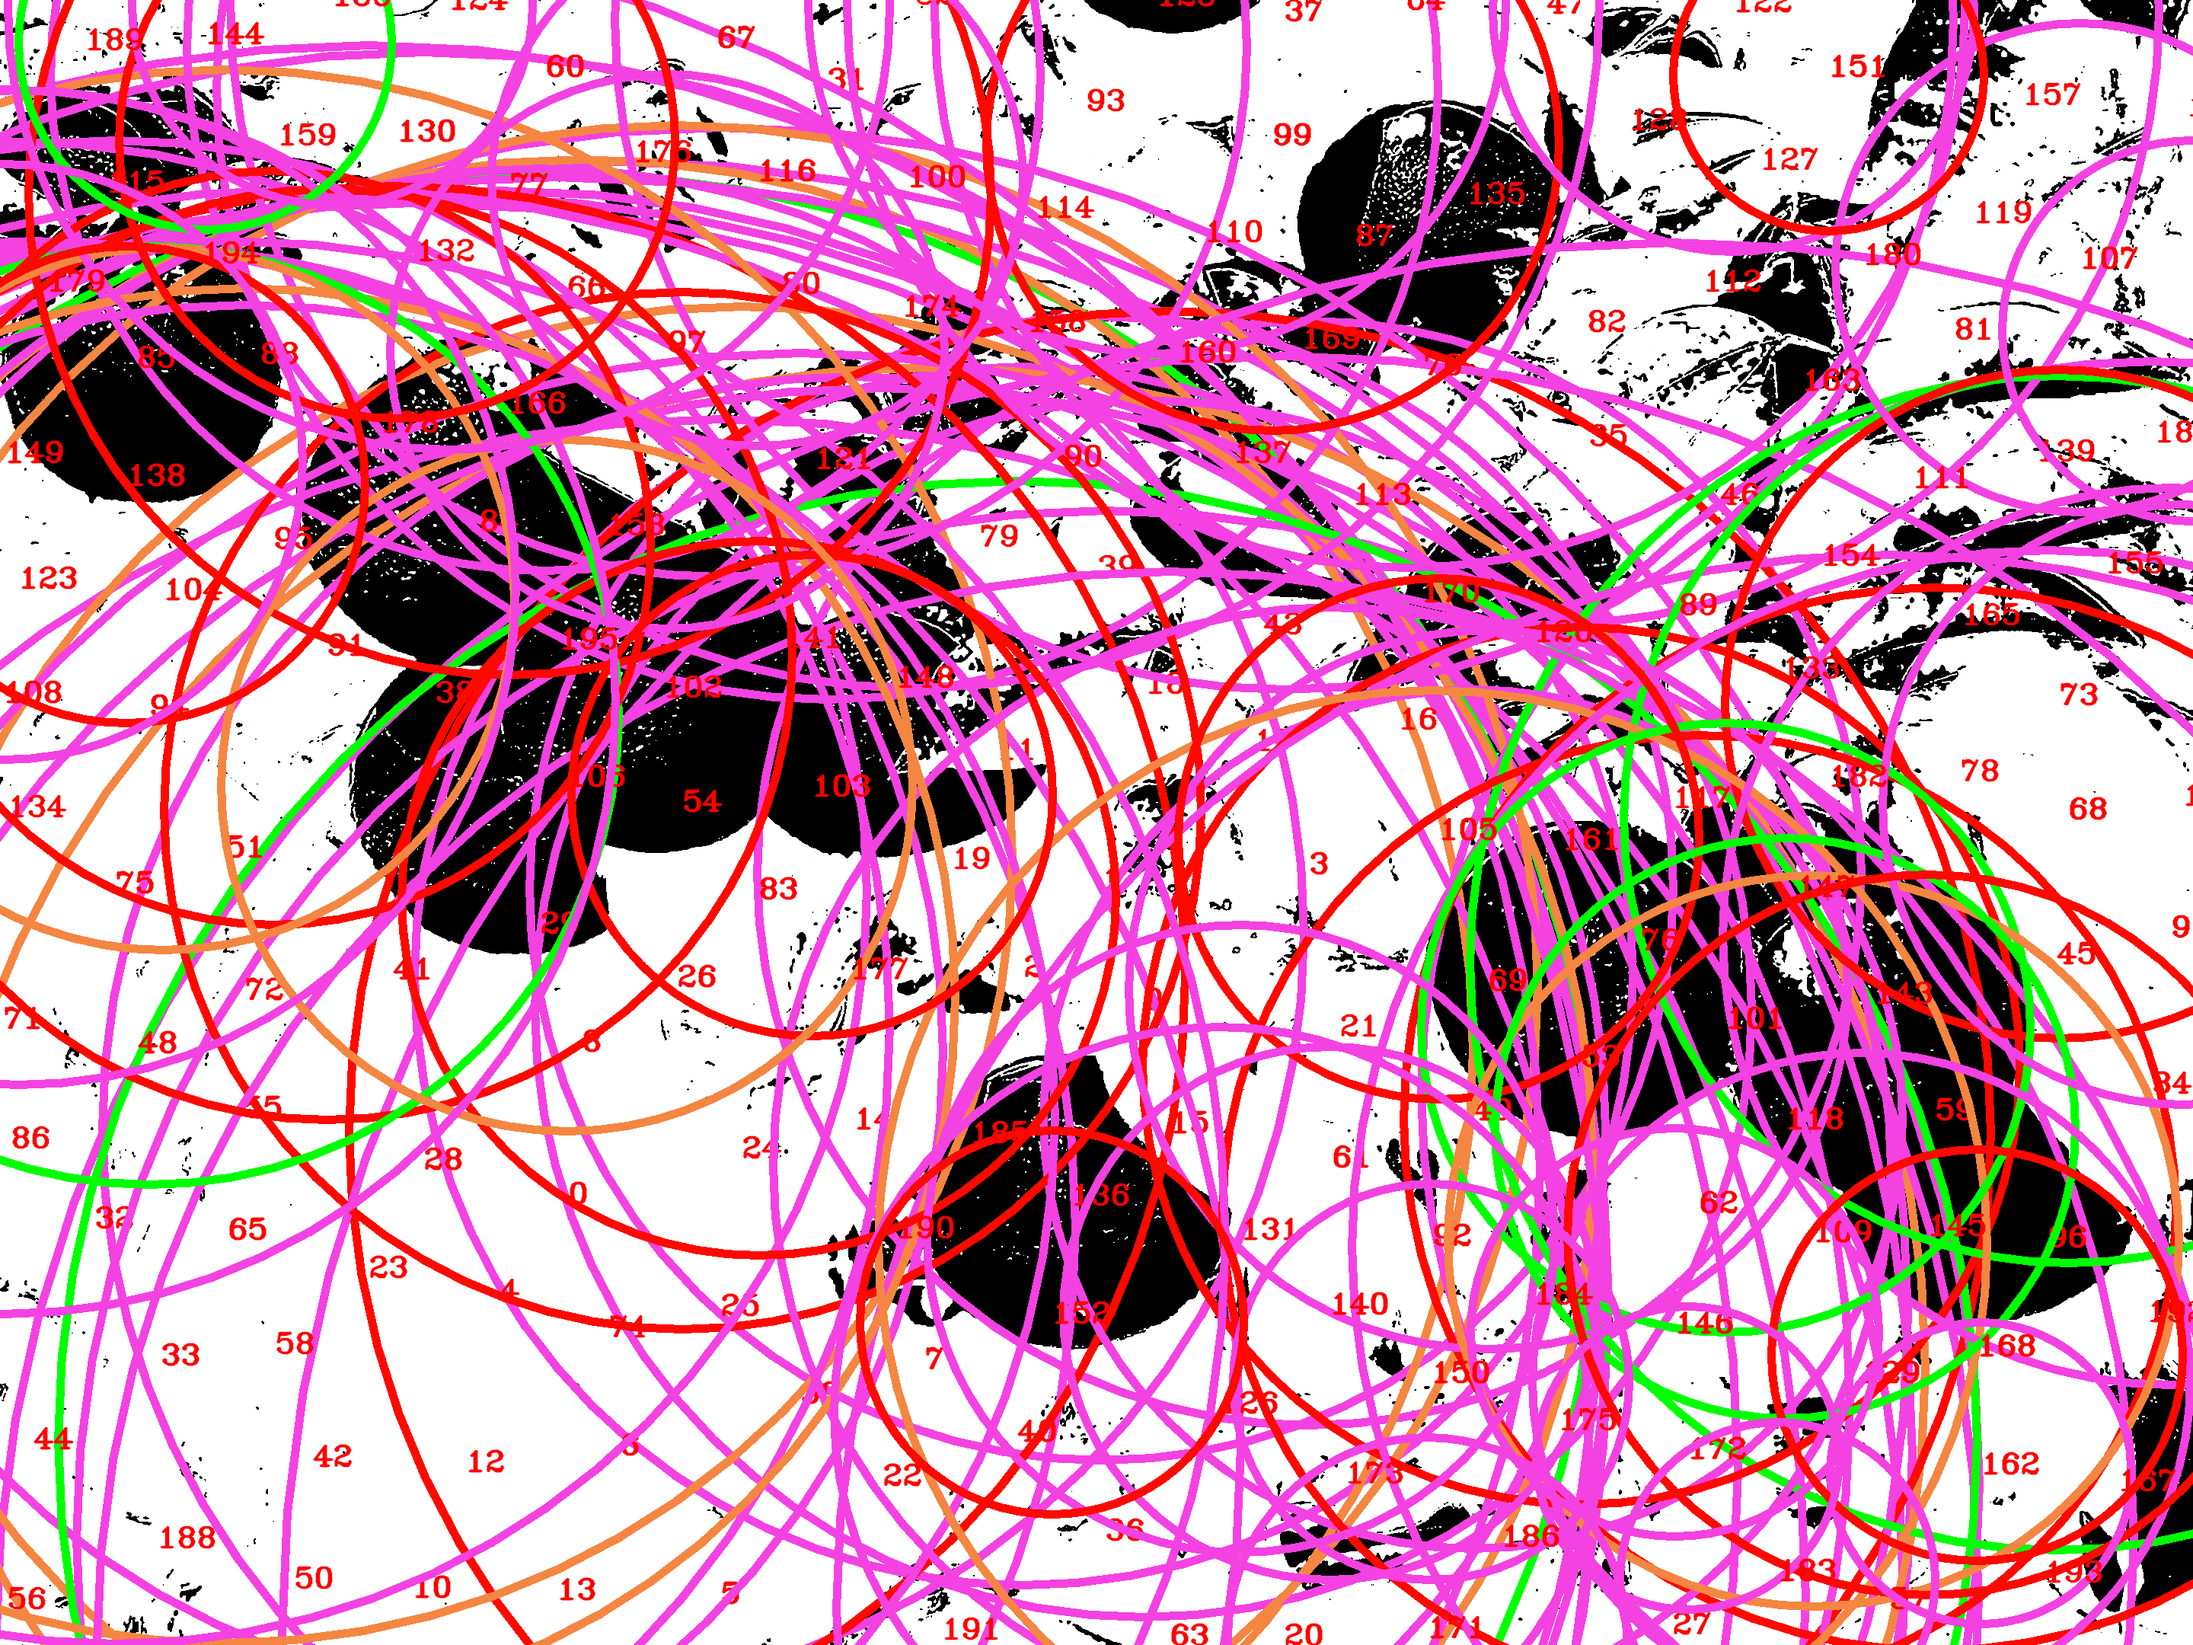
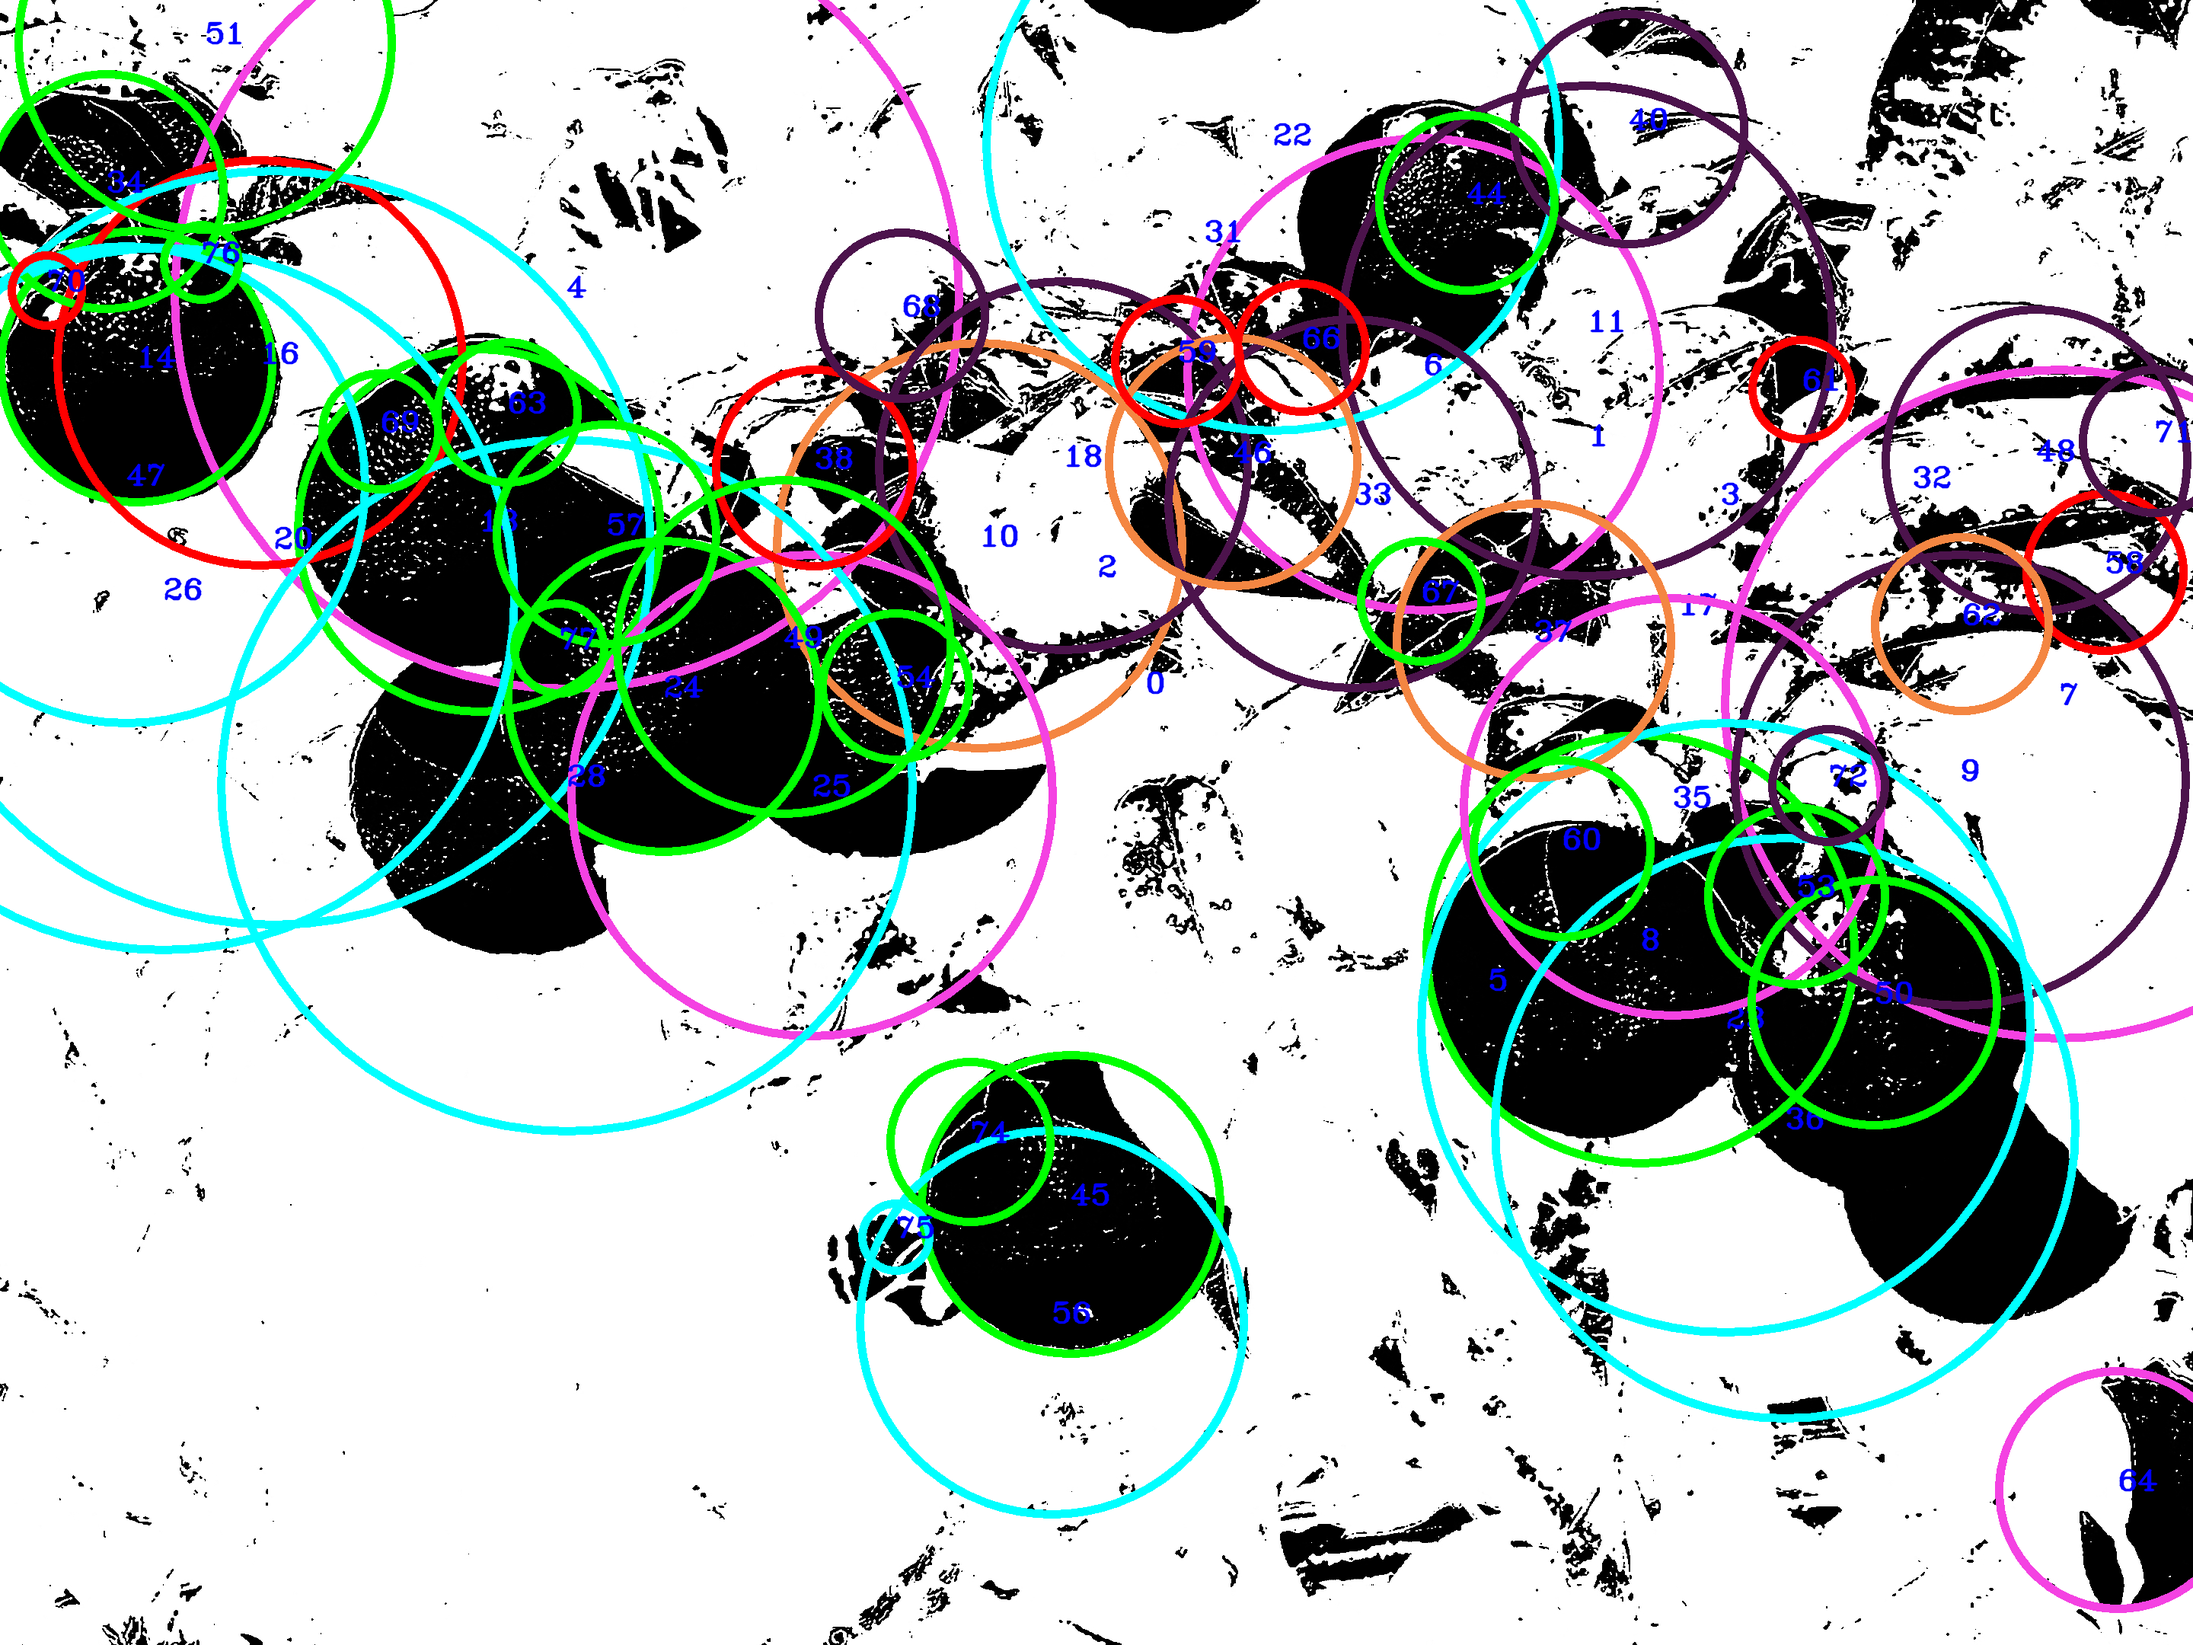
updated the circles, to match the circle changes in alt, citrus 1 works well, going to add overlap removal to imrpove for citrus2

diff --git a/circles.py b/circles.py
@@ -1,4 +1,4 @@
-#!/usr/bin/python3
+#!/usr/local/bin/python
 
 
 ##
@@ -11,6 +11,17 @@
 import os
 import cv2
 import numpy as np
+from joblib import Parallel, delayed
+import multiprocessing
+
+
+BLUE = (255, 0, 0)
+GREEN = (0, 255, 0)
+ORANGE = (66, 134, 244)
+PURPLE = (226, 66, 244)
+RED = (0, 0, 255)
+CYAN= (255, 255, 0)
+MAROON = (76, 19, 76)
 
 
 
@@ -32,16 +43,29 @@ def circleCount(fname):
     num = 0
     averageR = 0
     for i in circles[0,:]:
-        cv2.putText(cimg,str(num),(i[0],i[1]), cv2.FONT_HERSHEY_COMPLEX_SMALL , 2,(0, 0, 255),2,cv2.LINE_AA)
+
+        if (i[2] > img.shape[0] / 4 or i[2] > img.shape[1] / 4):
+            print("r is > 1/4 of size")
+            continue
+
+        mask = np.zeros(shape=(img.shape[0], img.shape[1]))
+        cv2.circle(mask,(i[0],i[1]),i[2],255, -1)
+        ratio = countWhite(mask, img, (i[0],i[1]),i[2], num)
+
+
+        if ratio < 20:
+            continue
+
+        print(num, " ", ratio)
+        # write the circle number
+
+
+        #if num == 22:
+        #    cv2.circle(cimg,(i[0],i[1]),i[2],RED,10)
 
 
         if  (averageR == 0) or (averageR != 0 and i[2] <= averageR*1.5 and  i[2] >= averageR*0.5):
 
-            mask = np.zeros(shape=(img.shape[0], img.shape[1]))
-            cv2.circle(mask,(i[0],i[1]),i[2],255, -1)
-            vals = countWhite(mask, img, (i[0],i[1]),i[2], num)
-
-            ratio = int(vals[1] / float(vals[0])*100)
 
             if ratio >= 50:
                 count += 1
@@ -52,31 +76,42 @@ def circleCount(fname):
                     averageR = (averageR + i[2]) / 2.0
 
                 # draw the outer circle
-                cv2.circle(cimg,(i[0],i[1]),i[2],(0,255,0),10)
-                cv2.circle(color,(i[0],i[1]),i[2],(0,255,0),10)
+                cv2.circle(cimg,(i[0],i[1]),i[2],GREEN,10)
+                cv2.circle(color,(i[0],i[1]),i[2],GREEN,10)
                 # draw the center of the circle
-                cv2.circle(color,(i[0],i[1]),2,(0,0,255),5)
+                cv2.circle(color,(i[0],i[1]),2,BLUE,5)
 
             elif ratio >= 30:
 
                 print(ratio)
                 if i[2] <= averageR*1.2 and  i[2] >= averageR*0.8:
 
-                    cv2.circle(cimg,(i[0],i[1]),i[2],(66, 134, 244),10)
-                    cv2.circle(color,(i[0],i[1]),i[2],(66, 134, 244),10)
+                    cv2.circle(cimg,(i[0],i[1]),i[2],ORANGE,10)
+                    cv2.circle(color,(i[0],i[1]),i[2],ORANGE,10)
                     # draw the center of the circle
-                    cv2.circle(color,(i[0],i[1]),2,(0,0,255),5)
+                    cv2.circle(color,(i[0],i[1]),2,BLUE,5)
+
+                elif i[2] <= averageR*1.4:
+                    cv2.circle(cimg,(i[0],i[1]),i[2],RED,10)            # slightly larger or too small
+                    cv2.circle(color,(i[0],i[1]),i[2],RED,10)
 
                 else:
-                    cv2.circle(cimg,(i[0],i[1]),i[2],(0, 8, 255),10)
+                    cv2.circle(cimg,(i[0],i[1]),i[2],PURPLE,10)         # too large, (altho could still be valid)
+                    cv2.circle(color,(i[0],i[1]),i[2],PURPLE,10)
+
             else:
 
-                print(ratio)
-                cv2.circle(cimg,(i[0],i[1]),i[2],(226, 66, 244),10)
+                # not filled enough but close in size
+                if i[2] <= averageR*1.2 and  i[2] >= averageR*0.8:
+                    cv2.circle(color,(i[0],i[1]),i[2],MAROON,10)
+                    cv2.circle(cimg,(i[0],i[1]),i[2],MAROON,10)
 
-            # write the circle number
-            cv2.putText(cimg,str(num),(i[0],i[1]), cv2.FONT_HERSHEY_COMPLEX_SMALL , 2,(0,0,255),2,cv2.LINE_AA)
+            cv2.putText(cimg,str(num),(i[0],i[1]), cv2.FONT_HERSHEY_COMPLEX_SMALL , 2,BLUE,2,cv2.LINE_AA)
+        else:
 
+            if ratio > 40:
+                cv2.circle(cimg,(i[0],i[1]),i[2],CYAN,10)
+                cv2.putText(cimg,str(num),(i[0],i[1]), cv2.FONT_HERSHEY_COMPLEX_SMALL , 2,BLUE,2,cv2.LINE_AA)
         num +=1
 
 
@@ -92,29 +127,33 @@ def circleCount(fname):
     cv2.imwrite("final/" +  fname + "_circles.png", color)
 
 
+##
+## This will return a the percentage of the black pixles in the circle * 100
+## If the circle goes off the edge of the page and < 40% is outside the page then
+## those pixels will be counted as if they are filled in
 def countWhite(mask, img, center, radius, index):
 
     numTotal = int(3.14 * radius**2)
     numWhite = 0
     numOutside = numTotal
 
+    white = np.zeros(shape=(img.shape[0], img.shape[1]))
+    count = np.zeros(shape=(img.shape[0], img.shape[1]))
 
-    lowerbound_out = max(int(center[1]) - radius, 0)
-    upperbound_out = min(center[1] + radius, img.shape[0])
+    white[(mask == 255) & (img == 0)] = 255
+    count[(mask == 255) ] = 255
 
-    lowerbound_in = max(int(center[0]) - radius, 0)
-    upperbound_in = min(center[0] + radius, img.shape[1])
+    unique, counts = np.unique(white, return_counts=True)
+    res = dict(zip(unique, counts))
 
-    for k in range(lowerbound_out, upperbound_out):
-        for i in range(lowerbound_in, upperbound_in):
+    numWhite = res.get(255)
 
-            if (mask[k,i] == 255 and img[k,i] == 0):
-                numWhite += 1
+    unique, counts = np.unique(count, return_counts=True)
+    res = dict(zip(unique, counts))
 
-            if (mask[k,i] == 255):
-                numOutside -= 1
+    numInFrame = res.get(255)
 
-
+    numOutside -= numInFrame
 
     if (numOutside / float(numTotal)*100) > 40:
         print("too much outside of img: ", (numOutside / float(numTotal)*100))
@@ -122,20 +161,45 @@ def countWhite(mask, img, center, radius, index):
     else:
         numWhite += numOutside
 
-    print("index:", index, numTotal, numWhite)
+    #print("index:", index, numTotal, numWhite)
 
-    return (numTotal, numWhite)
+
+    ratio1 = int(numWhite / float(numTotal)*100)
+    ratio2 = int(numWhite / float(numInFrame)*100)
+
+
+    if ratio2 < ratio1:
+        print("too much white in frame")
+
+    return min(ratio1, ratio2)
+
+
+
+
 
 if __name__ == '__main__':
 
     # imageList = os.listdir("./images/")
 
+    imageList = [
+        "citrus1",
+        "citrus2",
+        "citrus3",
+        "citrus4",
+        "citrus5",
+        "citrus6",
+        "citrus7",
+        "citrus8",
+        "orange1"]
+    #cpu_count = multiprocessing.cpu_count()
+    #res = Parallel(n_jobs=cpu_count)(delayed(circleCount)(k) for k in imageList)
+
     circleCount("citrus1")
     circleCount("citrus2")
-    circleCount("citrus3")
-    circleCount("citrus4")
-    circleCount("citrus5")
-    circleCount("citrus6")
-    circleCount("citrus7")
-    circleCount("citrus8")
-    circleCount("orange1")
+    #circleCount("citrus3")
+    #circleCount("citrus4")
+    #circleCount("citrus5")
+    #circleCount("citrus6")
+    #circleCount("citrus7")
+    #circleCount("citrus8")
+    #circleCount("orange1")
